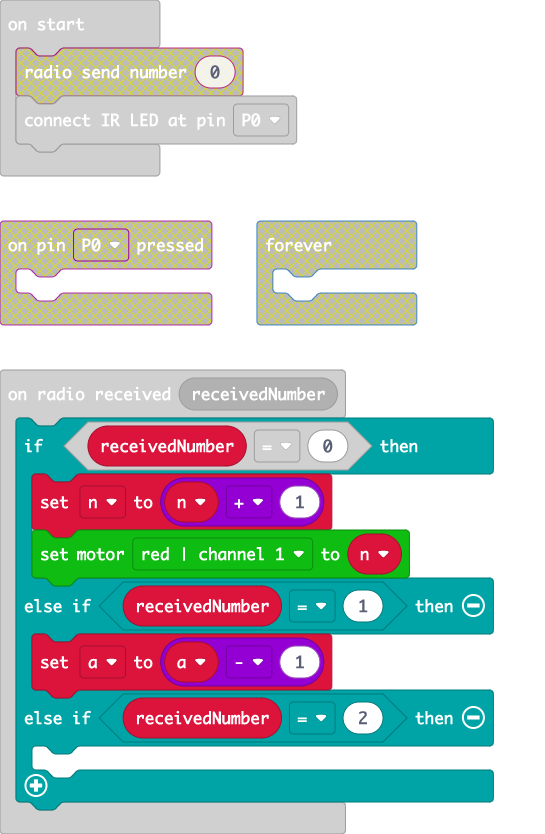
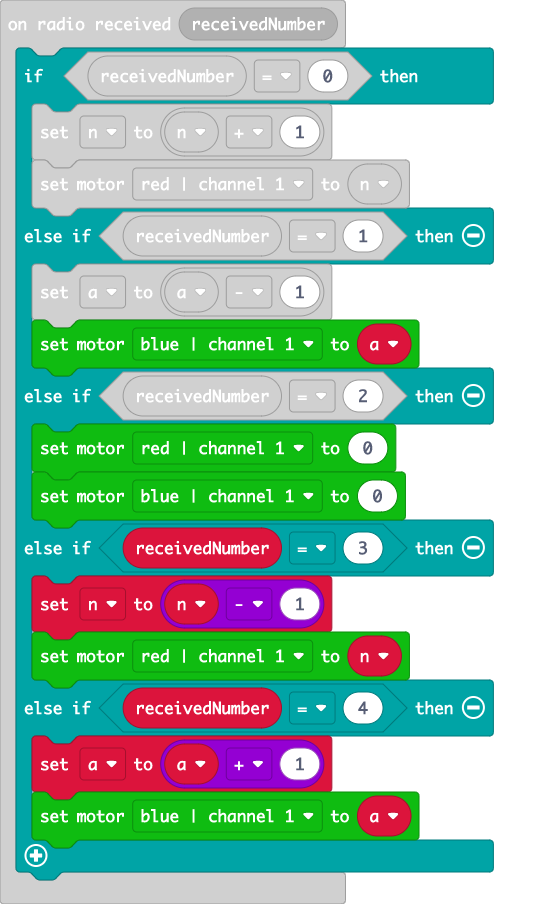
Update main.blocks, main.ts

diff --git a/main.ts b/main.ts
@@ -4,8 +4,16 @@ radio.onReceivedNumber(function (receivedNumber) {
         powerfunctions.setSpeed(PowerFunctionsMotor.Red1, n)
     } else if (receivedNumber == 1) {
         a = a - 1
+        powerfunctions.setSpeed(PowerFunctionsMotor.Blue1, a)
     } else if (receivedNumber == 2) {
-    	
+        powerfunctions.setSpeed(PowerFunctionsMotor.Red1, 0)
+        powerfunctions.setSpeed(PowerFunctionsMotor.Blue1, 0)
+    } else if (receivedNumber == 3) {
+        n = n - 1
+        powerfunctions.setSpeed(PowerFunctionsMotor.Red1, n)
+    } else if (receivedNumber == 4) {
+        a = a + 1
+        powerfunctions.setSpeed(PowerFunctionsMotor.Blue1, a)
     }
 })
 let a = 0
